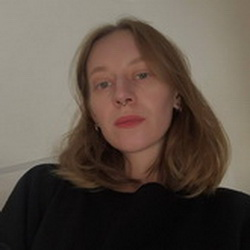
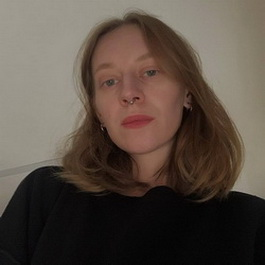
fix: fix styles, replace photo

diff --git a/style.css b/style.css
@@ -35,10 +35,12 @@ font-family: 'NeueKonstantGrotesk', sans-serif;
   display: flex;
   justify-content: center;
   align-items: center;
+  background-position:50%;
+  background-repeat: no-repeat;
 }
 
 img {
-  border-radius: 120px;
+  border-radius: 130px;
 }
 
 .title {
@@ -48,12 +50,13 @@ img {
   align-items: center;
   justify-content: center;
   height: fit-content;
+  width: 658px;
 }
 
 h1 {
-  font-size: 48px;
-  font-weight: 700;
-  margin: 0;
+    font-weight: 400;
+    font-size: 40px;
+    margin: 0;
 }
 
 .experience {
